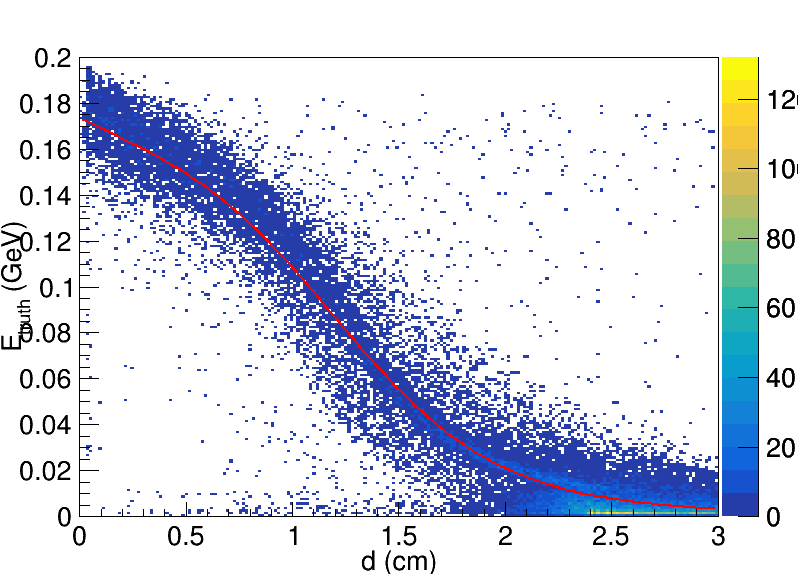
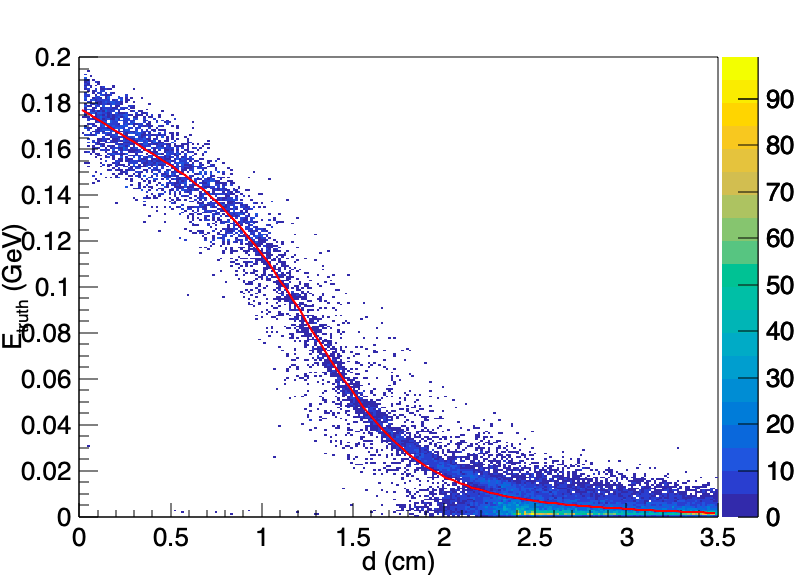
Backup: 2021年 1月28日 星期四 19时34分28秒 CST

diff --git a/Fit_DigiEnergy_cp.C b/Fit_DigiEnergy_cp.C
@@ -51,9 +51,9 @@ int Fit_DigiEnergy_cp(std::string dir_name, const char title[30], Int_t NO_Angle
     
     string str;
     Int_t N = 0;
-    Double_t distance_cut = 3;
+    Double_t distance_cut = 3.5;
     
-    TH2D* h = new TH2D("Hist","h",300,0,distance_cut,300,0,Energy);
+    TH2D* h = new TH2D("Hist","h",200,0,distance_cut,200,0,Energy);
     h->SetMarkerStyle(7);
     h->SetMarkerColorAlpha(kAzure+3, 0.5);
     h->GetYaxis()->SetTitle("E_{truth} (GeV)");
@@ -74,11 +74,18 @@ int Fit_DigiEnergy_cp(std::string dir_name, const char title[30], Int_t NO_Angle
         N++;
     }
     
+    for (int i = 1; i < 201; i++){
+        for (int j = 1; j < 201; j++){
+            if (h->GetBinContent(i,j)<=2) h->SetBinContent(i,j,0);
+            if (h->GetBinContent(i,j)!=0) h->SetBinContent(i,j,(int)(6*TMath::Log(h->GetBinContent(i,j))));
+        }
+    }
+    
     //TF1* f=new TF1("f1","TMath::Log(FABC(x,[0],[1],[2],[3],[4]))",0,distance_cut);
     TF1* f=new TF1("f1","(FABC(x,[0],[1],[2],[3],[4]))",0,distance_cut);
     f->SetParameters(Energy, 2.5, 0.9, 0.7, 3);
     //f->SetParLimits(0, 0.5, 1);
-    f->SetParLimits(2, 0, 1);
+    //f->SetParLimits(2, 0, 1);
     //f->SetParLimits(2, 1.01, 25);
 
     //f->SetParameters(1, 0.6, 5, 3.37, 1.45);
